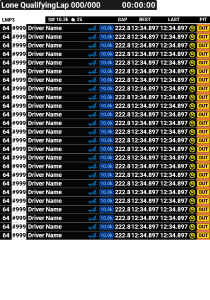
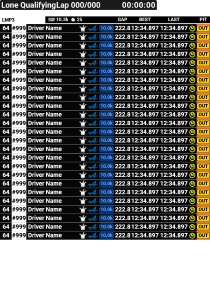
Added Joker Lap indicator for rallycross

Changed region(s): [[0.3714, 0.09, 0.4286, 0.81]]

diff --git a/Plugin/Modules/Standings.cs b/Plugin/Modules/Standings.cs
@@ -76,6 +76,7 @@ namespace benofficial2.Plugin
         public bool TireCompoundVisible { get; set; } = false;
         public TimeSpan BestLapTime { get; set; } = TimeSpan.Zero;
         public TimeSpan LastLapTime { get; set; } = TimeSpan.Zero;
+        public int JokerLapsComplete { get; set; } = 0;
     }
 
     public class StandingCarClass
@@ -190,6 +191,7 @@ namespace benofficial2.Plugin
                     plugin.AttachDelegate(name: $"Standings.Class{carClassIdx:00}.Row{rowIdx:00}.TireCompoundVisible", valueProvider: () => row.TireCompoundVisible);
                     plugin.AttachDelegate(name: $"Standings.Class{carClassIdx:00}.Row{rowIdx:00}.BestLapTime", valueProvider: () => row.BestLapTime);
                     plugin.AttachDelegate(name: $"Standings.Class{carClassIdx:00}.Row{rowIdx:00}.LastLapTime", valueProvider: () => row.LastLapTime);
+                    plugin.AttachDelegate(name: $"Standings.Class{carClassIdx:00}.Row{rowIdx:00}.JokerLapsComplete", valueProvider: () => row.JokerLapsComplete);
                 }
             }
         }
@@ -316,6 +318,7 @@ namespace benofficial2.Plugin
                         (row.TireCompound, row.TireCompoundVisible) = GetTireCompound(ref data, opponent);
                         row.BestLapTime = driver.BestLapTime;
                         row.LastLapTime = driver.LastLapTime;
+                        row.JokerLapsComplete = driver.JokerLapsComplete;
 
                         // Make sure we have a best lap time for the first lap of a race
                         // iRacing often doesn't provide a valid best lap time for lap 1
@@ -397,6 +400,7 @@ namespace benofficial2.Plugin
             row.TireCompoundVisible = false;
             row.BestLapTime = TimeSpan.Zero;
             row.LastLapTime = TimeSpan.Zero;
+            row.JokerLapsComplete = 0;
         }
 
         public int FindPlayerCarClassIdx(ref GameData data)

diff --git a/Plugin/Modules/Driver.cs b/Plugin/Modules/Driver.cs
@@ -49,6 +49,7 @@ namespace benofficial2.Plugin
         public bool FinishedRace { get; set; } = false;
         public TimeSpan LastLapTime { get; set; } = TimeSpan.Zero;
         public TimeSpan BestLapTime { get; set; } = TimeSpan.Zero;
+        public int JokerLapsComplete { get; set; } = 0;
     }
 
     public class ClassLeaderboard
@@ -515,6 +516,10 @@ namespace benofficial2.Plugin
                 {
                     driver.LastLapTime = TimeSpan.FromSeconds(lastLapTime);
                 }
+
+                int jokerLapsComplete = 0;
+                try { jokerLapsComplete = int.Parse(raw.AllSessionData["SessionInfo"]["Sessions"][sessionIdx]["ResultsPositions"][posIdx]["JokerLapsComplete"]); } catch { Debug.Assert(false); }
+                driver.JokerLapsComplete = jokerLapsComplete;
             }
         }
     }
